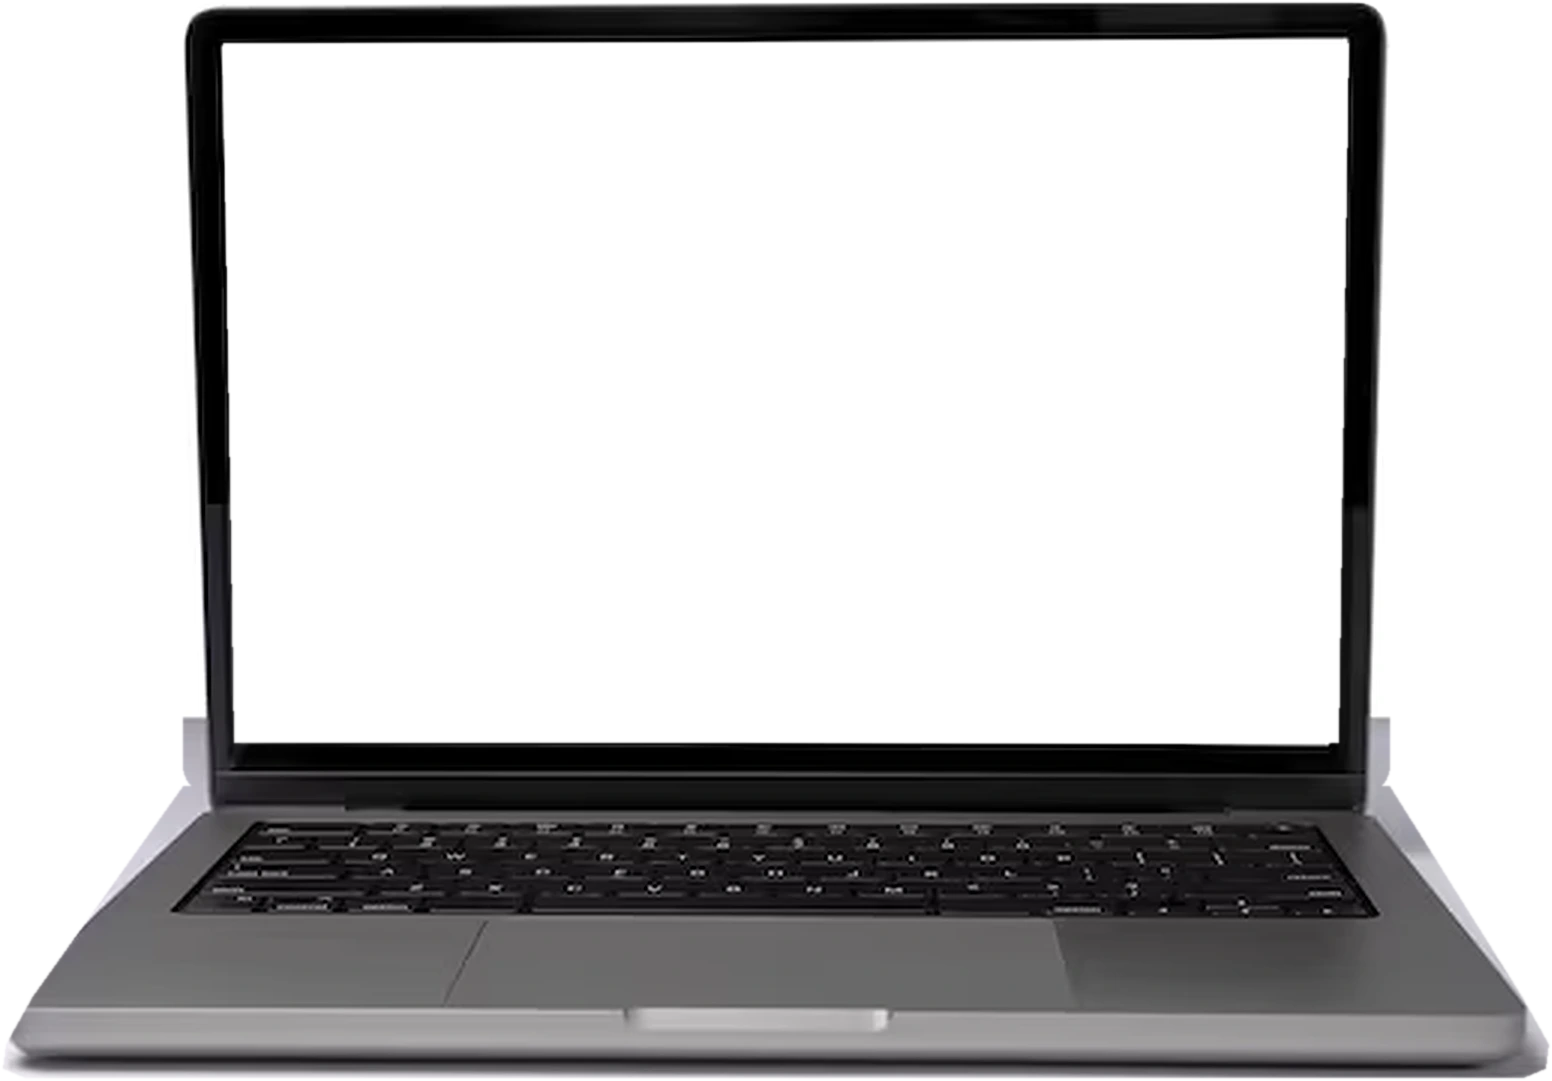
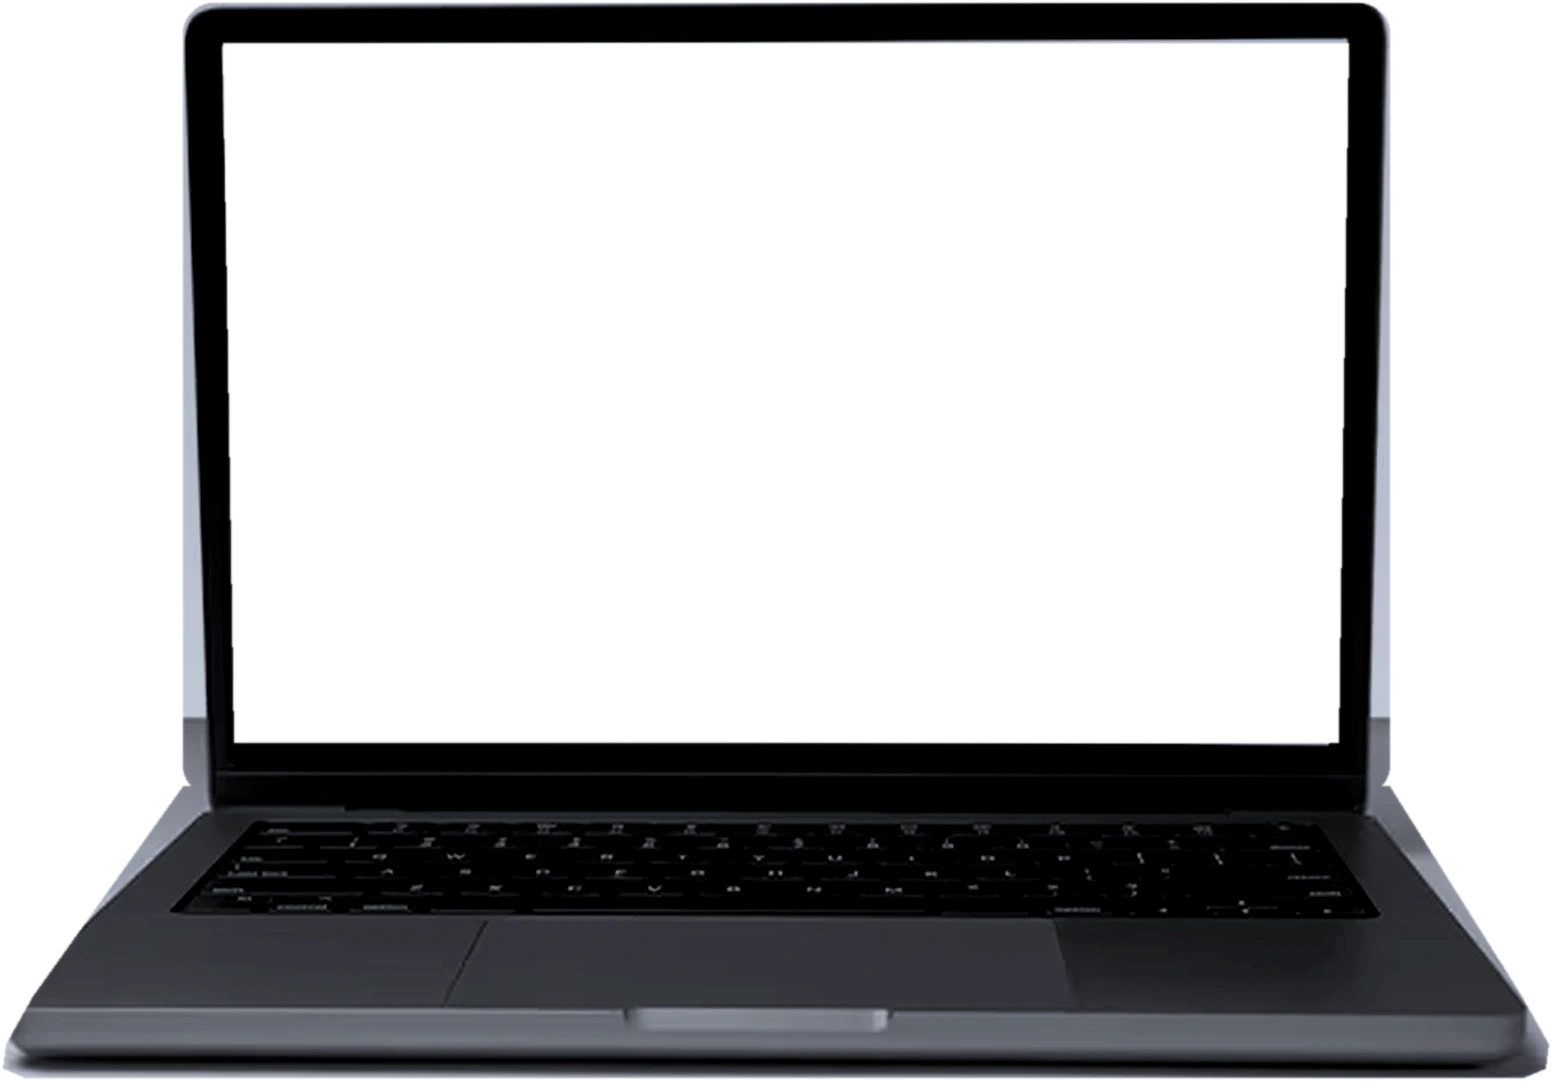
Projectes: portàtil més gran, acabat grafit, vidre i reflex premium
Claude-Session: https://claude.ai/code/session_01QbDmujYxTxyQRK3mqgvXPx

Changed region(s): [[0.0, 0.0, 1.0, 1.0]]

diff --git a/src/views/projects-page.tsx b/src/views/projects-page.tsx
@@ -46,10 +46,11 @@ const LOGOS: Record<string, string> = {
 
 /** Portàtil real, de cara, amb la web del client a la pantalla */
 const Dispositius = ({ src }: { src: string }) => (
-  <div className="relative w-full" style={{ aspectRatio: "1552 / 1081" }}>
+  <div className="illa-dispositiu relative w-full" style={{ aspectRatio: "1552 / 1081" }}>
     <div className="illa-pantalla absolute overflow-hidden bg-black" style={{ left: "14.2%", top: "3.8%", width: "72.9%", height: "65.1%" }}>
       <Image src={src} alt="" fill sizes="(max-width: 640px) 70vw, 24vw" className="object-cover object-top" />
       <span aria-hidden="true" className="illa-reflex" />
+      <span aria-hidden="true" className="illa-vidre" />
     </div>
     {/* eslint-disable-next-line @next/next/no-img-element */}
     <img src="/assets/altitud/portatil.webp" alt="" className="relative h-full w-full select-none" draggable={false} />
@@ -73,7 +74,7 @@ const ProjectCard = ({ p }: { p: Project }) => {
       aria-label={`Veure el projecte de ${p.name}`}
       onPointerMove={onMove}
       onPointerLeave={onLeave}
-      className="illa illa--clar group relative block aspect-[4/5] lg:aspect-square overflow-hidden rounded-[28px] bg-[#eceef2] text-black"
+      className="illa illa--clar group relative block aspect-[4/5] lg:aspect-[6/7] overflow-hidden rounded-[28px] bg-[#eceef2] text-black"
     >
       <span aria-hidden="true" className="illa-llum" />
       <span aria-hidden="true" className="illa-ombra" />

diff --git a/src/app/globals.css b/src/app/globals.css
@@ -902,3 +902,24 @@ font { background: transparent !important; }
   transition: background-position 1.1s cubic-bezier(0.2, 0.7, 0.2, 1);
 }
 .illa:hover .illa-reflex { background-position: -40% 0; }
+
+/* Projectes: portàtil més gran i premium */
+.illa--clar .illa-escenari { inset: 9% 7% 35% 7% !important; }
+.illa--clar::before {
+  content: ""; position: absolute; z-index: 0; left: 10%; right: 10%; top: 2%; height: 58%; pointer-events: none;
+  background: radial-gradient(closest-side, rgb(255 255 255 / 0.95), rgb(255 255 255 / 0) 100%);
+}
+.illa--clar .illa-portatil, .illa--clar:hover .illa-portatil, .illa--clar:focus-visible .illa-portatil {
+  filter: drop-shadow(0 2px 2px rgb(11 20 36 / 0.25)) drop-shadow(0 26px 28px rgb(11 20 36 / 0.22));
+}
+.illa--clar:hover .illa-portatil, .illa--clar:focus-visible .illa-portatil {
+  filter: drop-shadow(0 3px 3px rgb(11 20 36 / 0.22)) drop-shadow(0 40px 36px rgb(11 20 36 / 0.28));
+}
+.illa-dispositiu { -webkit-box-reflect: below 2px linear-gradient(transparent 82%, rgb(255 255 255 / 0.14)); }
+.illa-vidre {
+  position: absolute; inset: 0; pointer-events: none;
+  background: linear-gradient(160deg, rgb(255 255 255 / 0.16) 0%, rgb(255 255 255 / 0.04) 38%, transparent 39%),
+              linear-gradient(180deg, transparent 80%, rgb(0 0 0 / 0.18));
+  box-shadow: inset 0 0 0 1px rgb(255 255 255 / 0.05);
+}
+.illa--clar .illa-ombra { top: 58%; left: 14%; right: 14%; }
